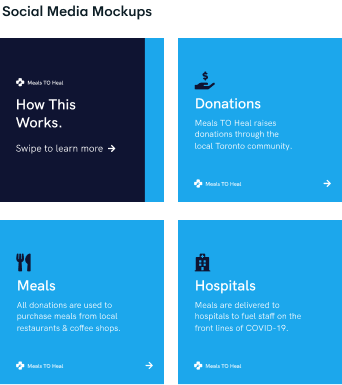
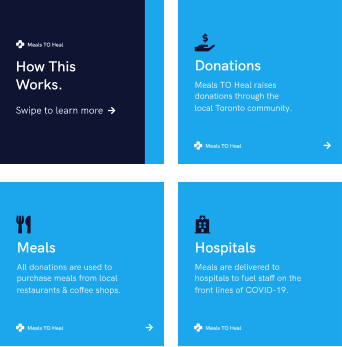
Updated the assets and styling on mobile for a few different components

diff --git a/sarahhkeast_portfolio/src/components/project-content.jsx b/sarahhkeast_portfolio/src/components/project-content.jsx
@@ -136,7 +136,7 @@ const ProjectContent = ({ type, title, titleSize, text, textColor, images, mobil
                             mobileImageContent ?
                                 mobileImageContent.map((imageContent, index) => {
                                     return (
-                                        <React.Fragment>
+                                        <div className={`${projectContent}__screen-mobile-content-container`}>
                                             {
                                                 imageContent.title ?
                                                     <h4 key={`${imageContent.title}-${index}`}
@@ -144,6 +144,15 @@ const ProjectContent = ({ type, title, titleSize, text, textColor, images, mobil
                                                         style={{
                                                             color: textColor ? textColor : ""
                                                         }}>{imageContent.title}</h4>
+                                                    : null
+                                            }
+                                            {
+                                                imageContent.text ?
+                                                    <span key={`${imageContent.text}-${index}`}
+                                                        className={`${projectContent}__screen-mobile-content-text`}
+                                                        style={{
+                                                            color: textColor ? textColor : ""
+                                                        }}>{imageContent.text}</span>
                                                     : null
                                             }
                                             <div className={`${projectContent}__screen-mobile-content-image-container`}>
@@ -159,7 +168,8 @@ const ProjectContent = ({ type, title, titleSize, text, textColor, images, mobil
 
                                                 }
                                             </div>
-                                        </React.Fragment>
+                                        </div>
+
                                     )
                                 })
                                 : null

diff --git a/sarahhkeast_portfolio/src/styles/components/project-content.scss b/sarahhkeast_portfolio/src/styles/components/project-content.scss
@@ -142,6 +142,8 @@
 
     &__screen-gallery-container {
         width: 100%;
+        max-height: 100%;
+        overflow-y: hidden;
         display: flex;
         flex-direction: column;
         padding-left: 15%;
@@ -149,8 +151,10 @@
         margin-bottom: -72px;
         @media (max-width: $breakpoint-tablet) {
             padding-left: 18px;
-            width: calc(100% + 18px);
+            padding-right: 18px;
+            width: 100%;
             margin-left: -18px;
+            margin-right: -18px;
             margin-bottom: -140px;
         }
     }
@@ -196,7 +200,10 @@
     }
 
     &__screen-image-container {
-        display: grid;
+        display: block;
+        @media (min-width: $breakpoint-tablet) {
+            display: grid;
+        }
     }
 
     &__screen-image {
@@ -220,10 +227,27 @@
         }
     }
 
+    &__screen-mobile-content-container {
+        margin-bottom: -20px;
+    }
+
     &__screen-mobile-content-title {
         font-size: 16px;
+        color: $color-black;
         line-height: 22px;
         font-weight: 600;
+        max-width: calc(100% - 36px);
+        @media (min-width: $breakpoint-tablet) {
+            display: none;
+        }
+    }
+
+    &__screen-mobile-content-text {
+        font-size: 14px;
+        line-height: 28px;
+        color: $color-black;
+        max-width: 100%;
+        max-width: calc(100% - 36px);
         @media (min-width: $breakpoint-tablet) {
             display: none;
         }
@@ -238,6 +262,10 @@
         @media (min-width: $breakpoint-tablet) {
             display: none;
         }
+    }
+
+    &__screen-mobile-content-image {
+        max-width: 100%;
     }
 
 }

diff --git a/sarahhkeast_portfolio/public/index.html b/sarahhkeast_portfolio/public/index.html
@@ -3,11 +3,11 @@
 
 <head>
   <meta charset="utf-8" />
-  <link rel="icon" href="%PUBLIC_URL%/favicon.ico" />
+  <link rel="icon" href="%PUBLIC_URL%/smile.png" />
   <meta name="viewport" content="width=device-width, initial-scale=1" />
   <meta name="theme-color" content="#000000" />
-  <meta name="description" content="Web site created using create-react-app" />
-  <link rel="apple-touch-icon" href="%PUBLIC_URL%/logo192.png" />
+  <meta name="description" content="Sarah H Keast's Professional Portfolio" />
+  <link rel="apple-touch-icon" href="%PUBLIC_URL%/smile.png" />
   <!--
       manifest.json provides metadata used when your web app is installed on a
       user's mobile device or desktop. See https://developers.google.com/web/fundamentals/web-app-manifest/

diff --git a/sarahhkeast_portfolio/src/styles/components/next-project-card.scss b/sarahhkeast_portfolio/src/styles/components/next-project-card.scss
@@ -9,7 +9,8 @@
             justify-content: space-between;
             height: 524px;
             padding-left: 18px;
-            width: calc(100% - 18px);
+            padding-right: 18px;
+            width: calc(100% - 36px);
     }
 
     &__title-container {
@@ -81,7 +82,7 @@
     }
 
     &__image-mobile {
-        max-height: 100%;
+        max-width: 100%;
         @media (min-width: $breakpoint-tablet) {
             display: none;
         }

diff --git a/sarahhkeast_portfolio/src/styles/pages/project-page.scss b/sarahhkeast_portfolio/src/styles/pages/project-page.scss
@@ -125,12 +125,12 @@
             display: none;
         }
         @media (min-width: $breakpoint-tablet) {
-            // width: 1042px;
+            max-width: 790px;
         }
     }
 
     &__banner-image-mobile {
-        // max-width: 375px;
+        max-width: 375px;
         @media (min-width: $breakpoint-tablet) {
             display: none;
         }
